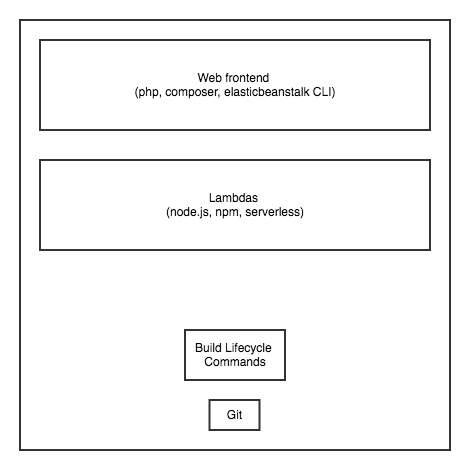
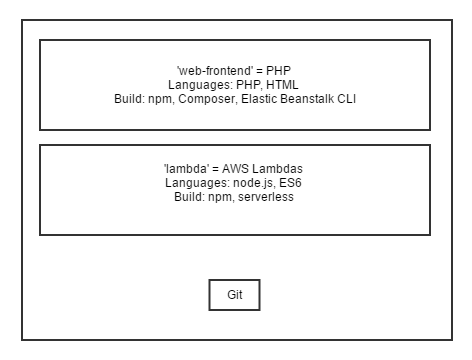
Add some more diagrams

Changed region(s): [[0.0298, 0.0306, 0.9532, 0.9778]]

diff --git a/README.md b/README.md
@@ -41,6 +41,9 @@ Here's what, while logging to the page that loads, submit.php actually does:
    * The key for the subject
    * The key for the body
 
+## Web Frontend Architecture
+![Web Frontend Architecture](/Web-Frontend-Architecture.png?raw=true)
+
 ## Lambda Backend
 Technologies for functionality:
  * ECMAScript6
@@ -63,7 +66,7 @@ Technologies for testing:
 Here's a summary of what the Lambda architecture does:
  * Is triggered by the arrival of an SNS message
  * Attempts to parse keys and recipients from the message
- * Collect environment variables from AWS configuration
+ * Collects environment variables from AWS configuration
  * Retrieves the recipient's address from MySQL
  * Retrieves the intended subject from MySQL
  * Retrieves the intended body from DynamoDB
